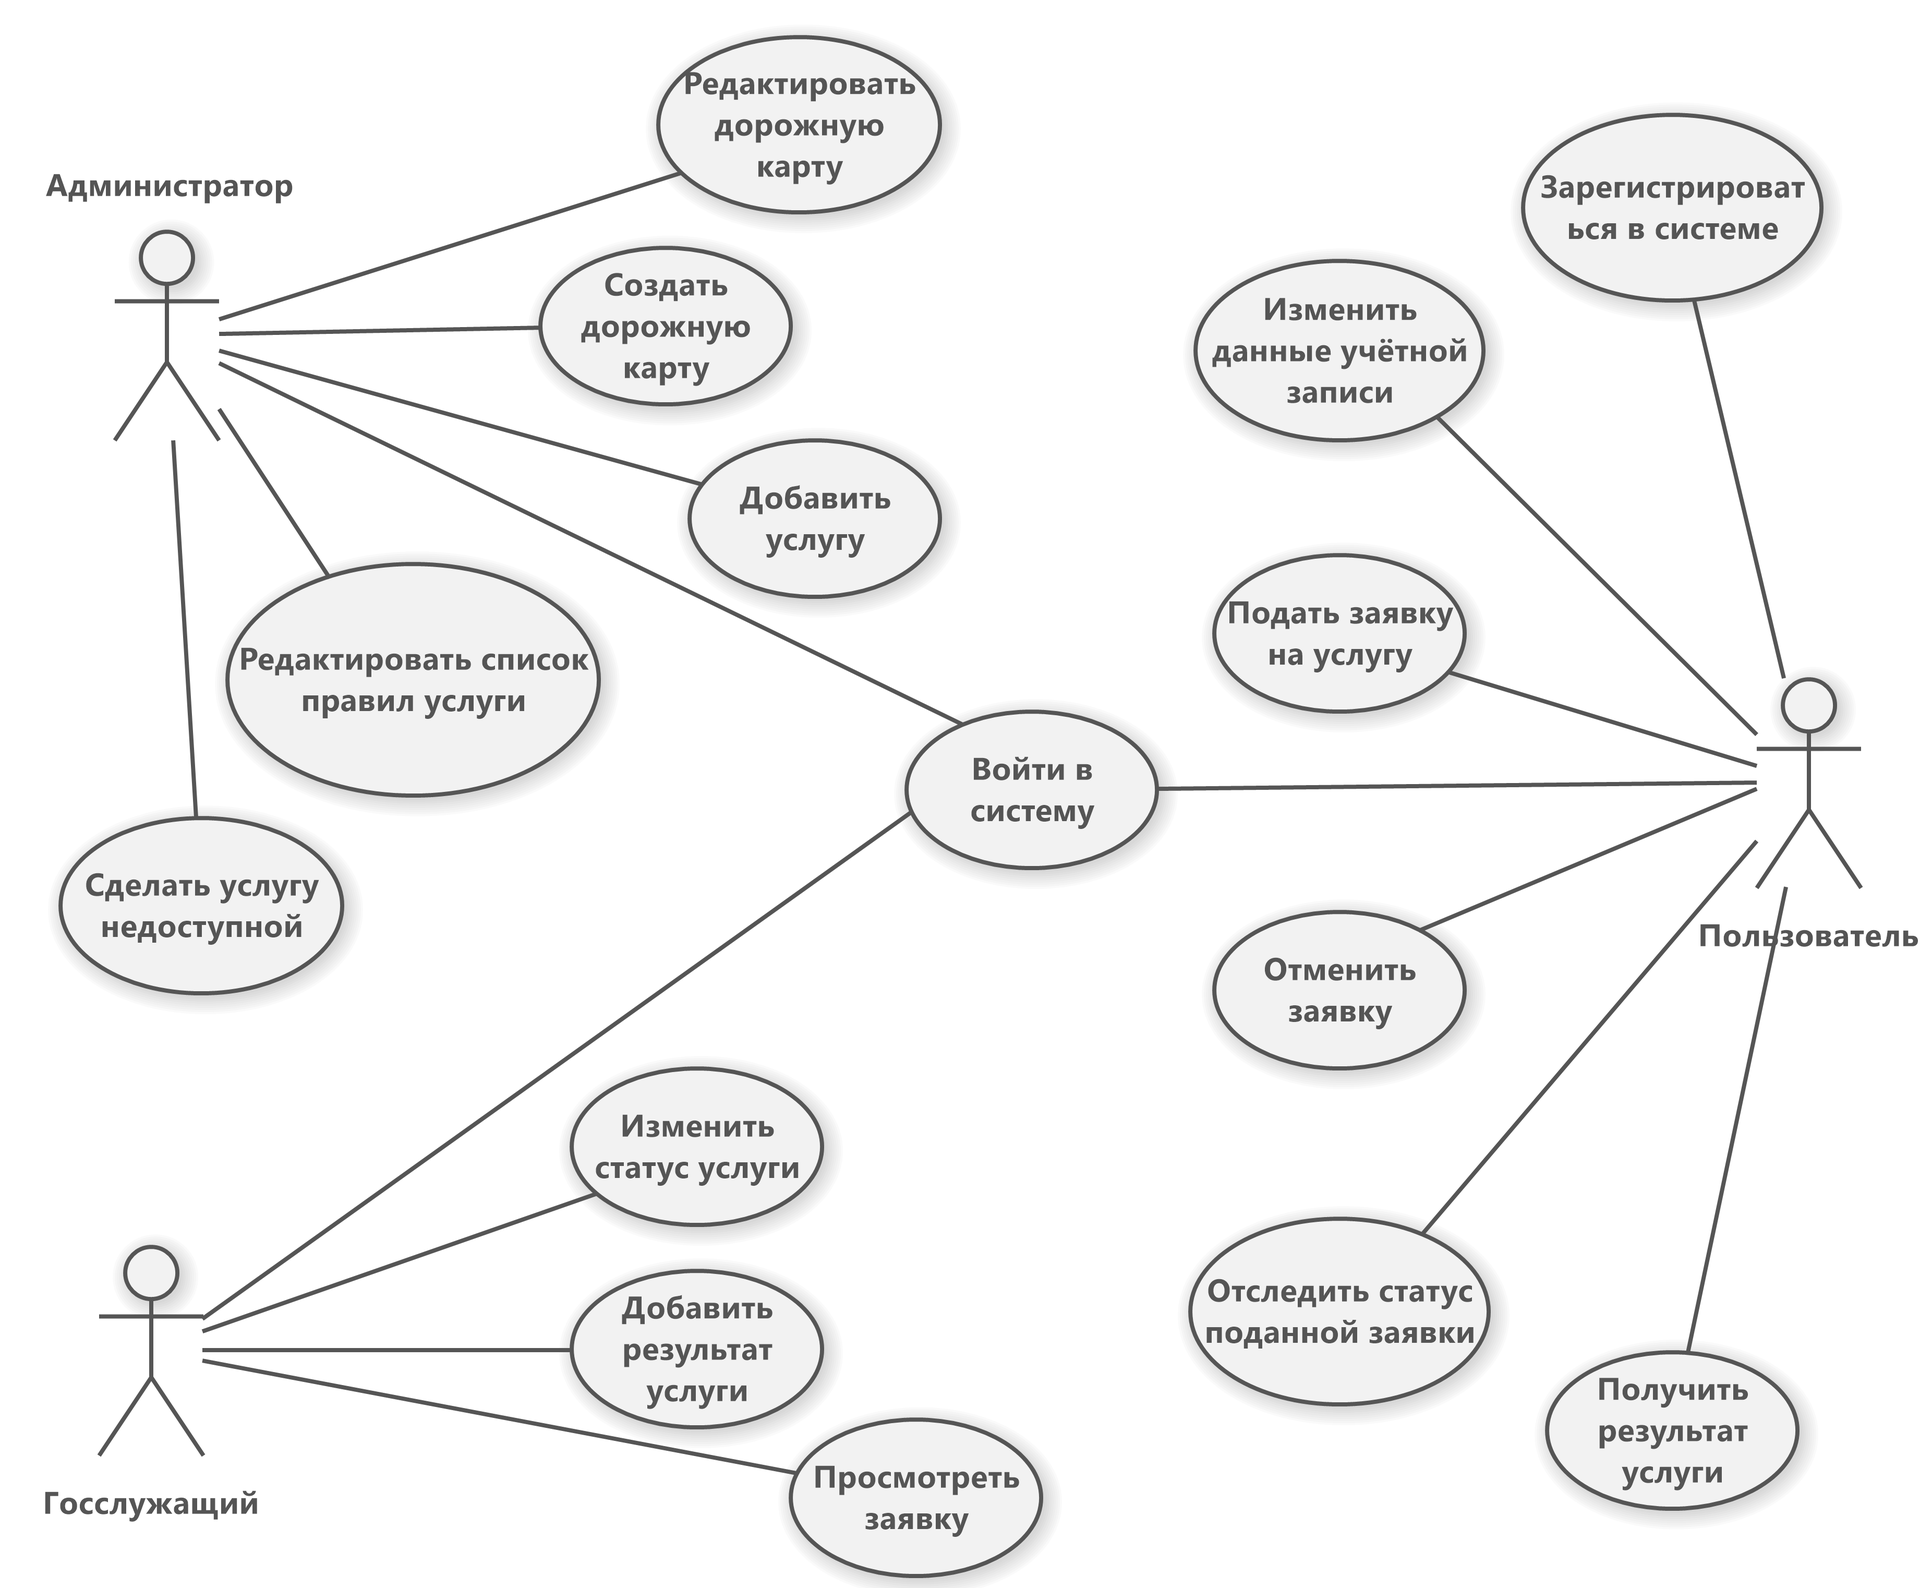
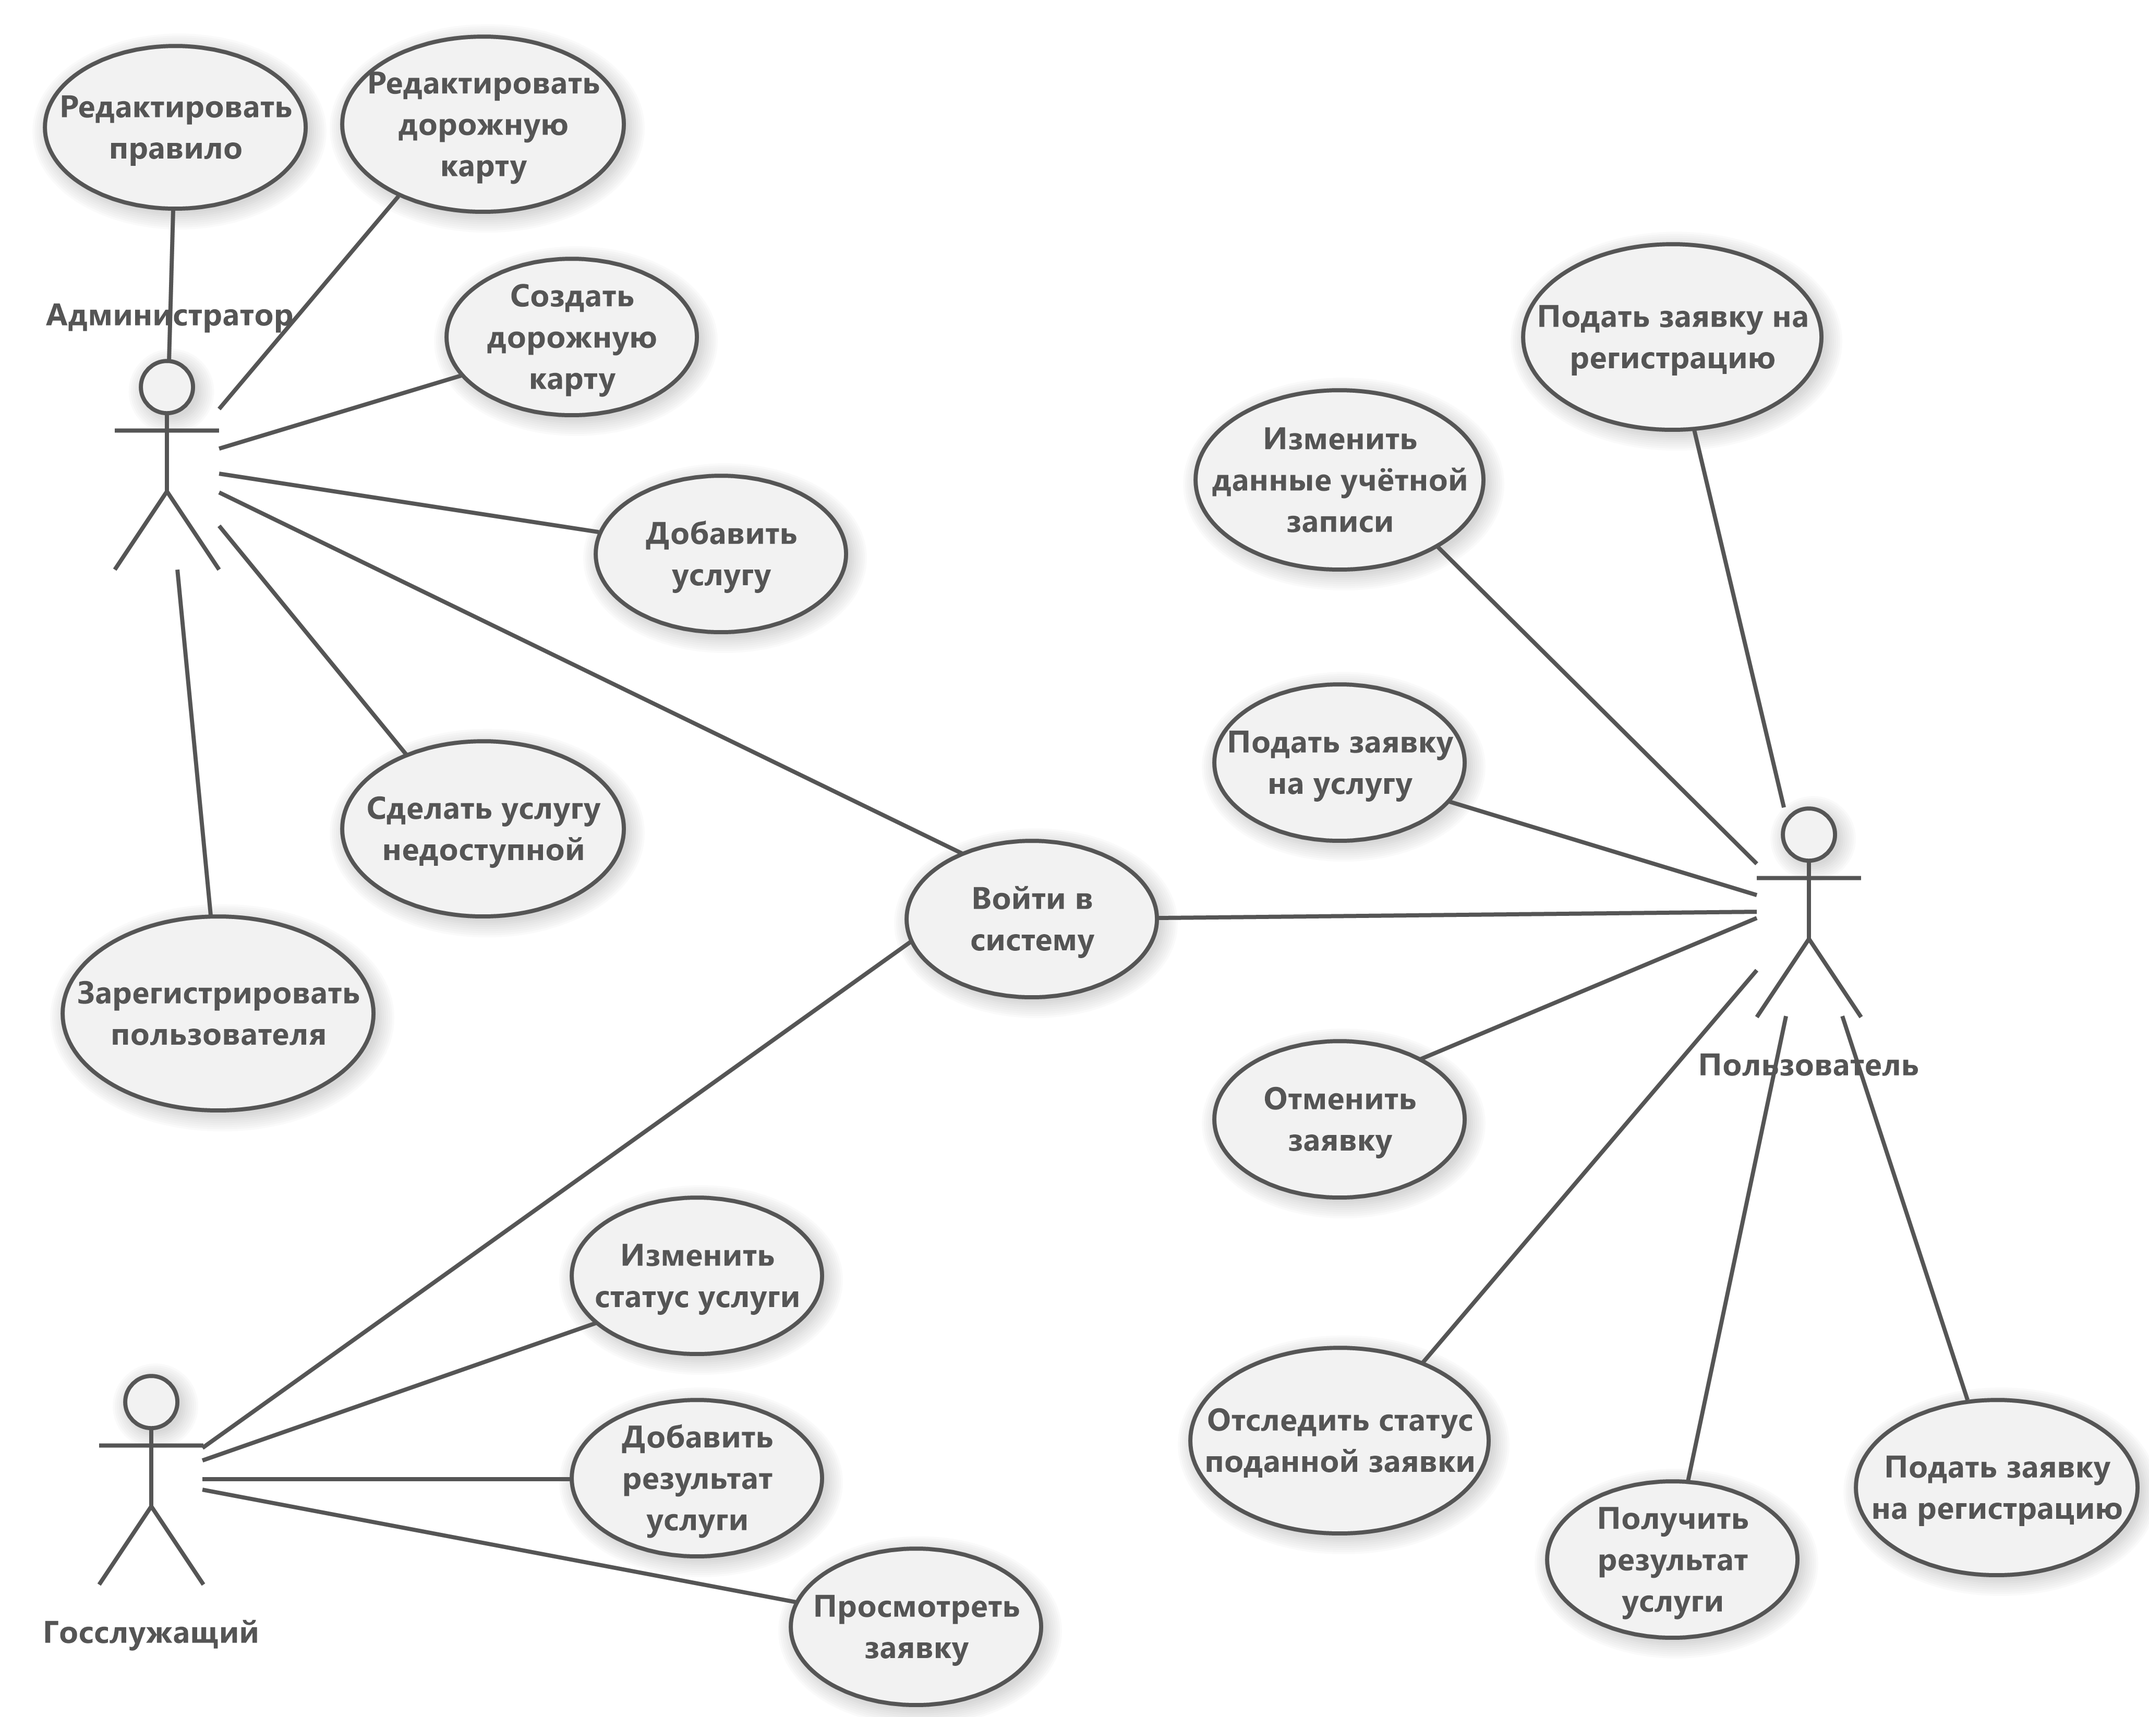
Remake UseCase Two

diff --git a/Диаграмма UseCase/Акторы.md b/Диаграмма UseCase/Акторы.md
@@ -1,6 +1,7 @@
 ![Диаграмма](Usecase.png)
 
 ---
+
 ### Акторы / Роли / Права доступа
 1. Администратор — специалист, управляющий настройками системы и параметрами предоставляемых услуг.
 2. Госслужащий — сотрудник государственного органа, обрабатывающий заявки пользователей и предоставляющий результаты услуг.
@@ -8,15 +9,16 @@
 
 ---
 
-### Администратор
+### Администратор 
 - Войти в систему: идентификация → аутентификация → авторизация
+- Зарегистрировать пользователя: создаёт учётную запись для пользователя.
 - Создать дорожную карту: создаёт набор услуг, указывая к ним правила, описание и прочие элементы.
-- Редактировать дорожную карту: изменяет описание, структуру и другие элементы.
+- Редактировать дорожную карту: изменяет описание, структуру, список правил и другие элементы.
+- Редактировать правило: изменяет содержимое правила.
 - Добавить услугу: добавляет новую услугу в дорожную карту, указывая список правил.
-- Редактировать список правил услуги: изменяет список правил для получения услуги.
 - Сделать услугу недоступной: помечает услугу как неактивная, помещая её в архив.
 
-***Удаление или редактирование** услуг запрещено, они хранятся, условно, в архиве. Если некоторые данные (исключая правила) в услуге изменились, необходимо пересоздать услугу, а старую поместить в архив.*
+_**Удаление или редактирование** услуг запрещено, они хранятся, условно, в архиве. Если некоторые данные (исключая правила) в услуге изменились, необходимо пересоздать услугу, а старую поместить в архив._
 
 ---
 
@@ -26,13 +28,13 @@
 - Изменить статус услуги:
 	- На рассмотрении — начальный этап, когда заявка подана и находится в процессе обработки.
 	- Услуга оказана — финальный этап, когда услуга завершена, и принято решение или результат предоставлен.
-	- Отказано в услуге — ситуация, когда в предоставлении услуги отказано, например, из-за несоответствия требованиям.
+	- Отказано в услуге — ситуация, когда в предоставлении услуги отказано, например, из-за несоответствия требованиям.3
 - Добавить результат услуги: может передать результат обработанной услуги в форме текста.
 
 ---
 
 ### Пользователь
-- Зарегистрироваться в системе: создаёт учётную запись и проходит авторизацию.
+- Подать заявку на регистрацию.
 - Войти в систему: идентификация → аутентификация → авторизация
 - Изменить данные учётной записи: может добавлять/изменять данные учётной записи
 - Подать заявку на услугу: выбирает услугу из доступного списка по его введённым данным и отправляет заявку.
